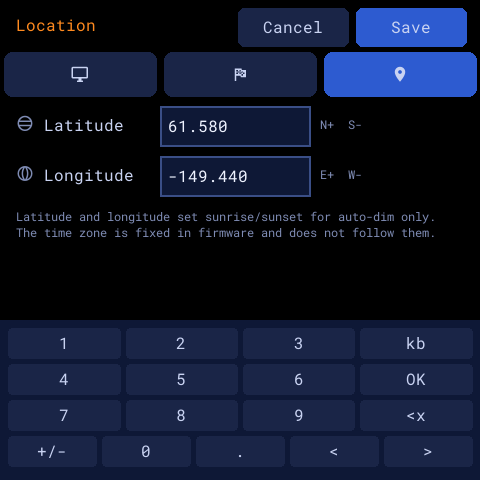
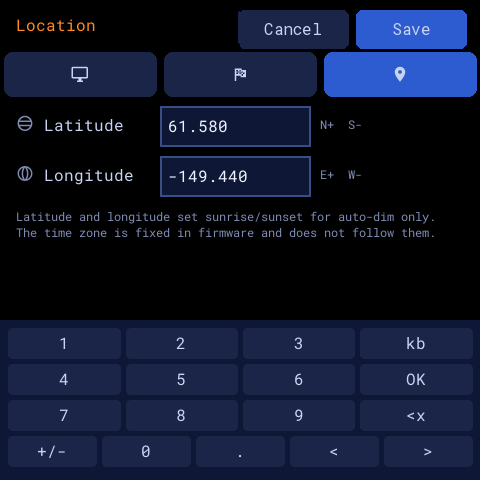
Top-row buttons start at y=10 (Cancel, Save, About Close, Debug Close); dino root fixed at screen size so a sprite past x=480 no longer shifts the picture

Changed region(s): [[0.5, 0.0, 0.7188, 0.125], [0.75, 0.0, 0.9688, 0.125]]

diff --git a/tools/render_pages.py b/tools/render_pages.py
@@ -580,8 +580,8 @@ def _settings_frame(ctx, page, tab, ids):
     d.text((16, 14), ("Display", "Race", "Location")[tab], font=FONT[16], fill=ORANGE)   # names the open tab
     for x, w, col, lab in ((238, 110, (0x1A, 0x25, 0x47), "Cancel"),
                            (356, 110, BORDER, "Save")):
-        d.rounded_rectangle([x, 8, x + w, 46], 6, fill=col)
-        d.text((x + w / 2, 8 + 19), lab, font=FONT[16], fill=TEXT, anchor="mm")
+        d.rounded_rectangle([x, 10, x + w, 48], 6, fill=col)
+        d.text((x + w / 2, 10 + 19), lab, font=FONT[16], fill=TEXT, anchor="mm")
     mdi = None
     mdi_path = os.path.join(ROOT, "tools", ".cache", "mdi.ttf")     # the firmware's MDI 7.4.47
     if os.path.exists(mdi_path):
@@ -1053,8 +1053,8 @@ def page_debug(ctx):
     require(ctx["geo"], "page-10-debug", "debug_label")
     img = Image.new("RGB", (W, H), BG); d = ImageDraw.Draw(img)
     d.text((8, 8), "Debug", font=FONT[16], fill=ORANGE)
-    d.rounded_rectangle([W - 104, 4, W - 8, 38], 6, fill=(0x1A, 0x25, 0x47))
-    d.text((W - 56, 21), "Close", font=FONT[16], fill=TEXT, anchor="mm")
+    d.rounded_rectangle([W - 104, 10, W - 8, 44], 6, fill=(0x1A, 0x25, 0x47))
+    d.text((W - 56, 27), "Close", font=FONT[16], fill=TEXT, anchor="mm")
     body = ("System\n"
             "  IP 192.168.1.47\n"
             "  Wi-Fi home-ssid  -58 dBm\n"

diff --git a/f1-tracker/f1_dino.h b/f1-tracker/f1_dino.h
@@ -182,6 +182,7 @@ inline bool begin_walk(uint32_t seed) {
   st.root = lv_image_create(scr);
   lv_image_set_src(st.root, st.snap);
   lv_obj_set_pos(st.root, 0, 0);
+  lv_obj_set_size(st.root, SCREEN_W, SCREEN_H);   // not SIZE_CONTENT: a sprite past x=480 would widen it and shift the picture
   lv_obj_remove_flag(st.root, LV_OBJ_FLAG_CLICKABLE);
   lv_obj_remove_flag(st.root, LV_OBJ_FLAG_SCROLLABLE);
   lv_obj_move_foreground(st.root);
